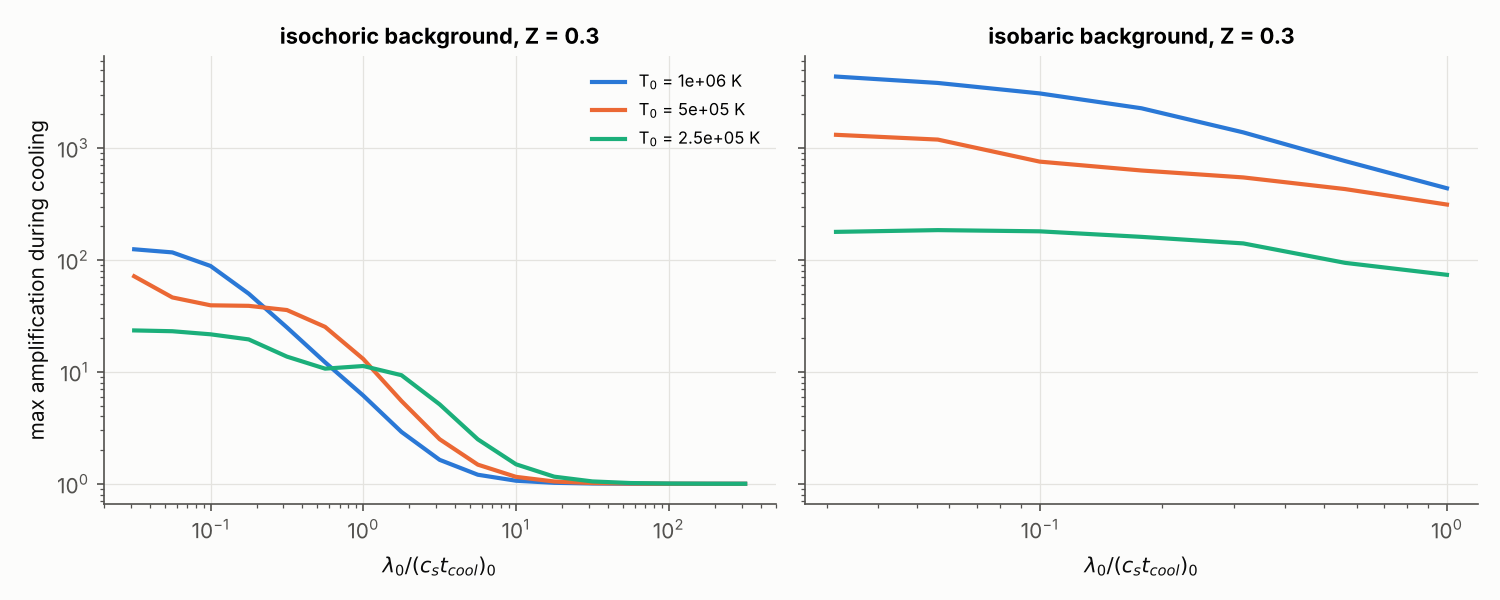
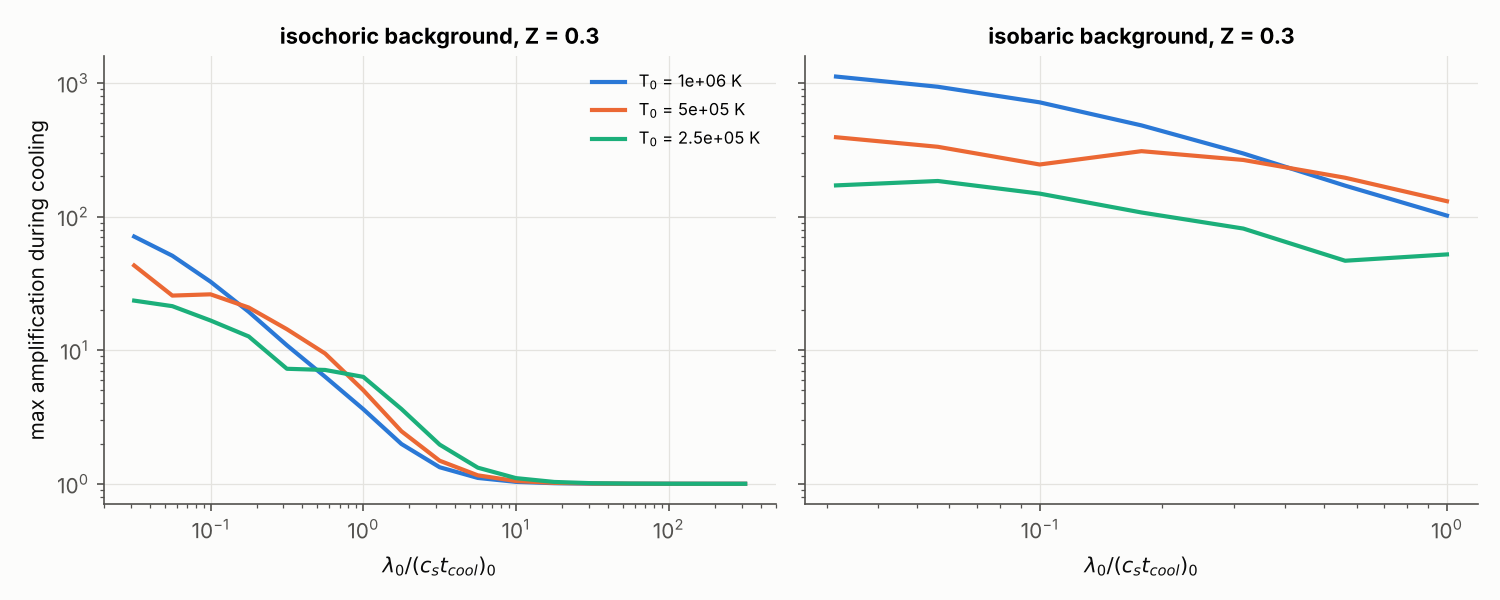
Rerun original-cooling linear survey with corrected time normalization; update figures and report text
Claude-Session: https://claude.ai/code/session_013ncLNAekGpQH8Wdgfujx6v

diff --git a/python/make_figures.py b/python/make_figures.py
@@ -284,7 +284,7 @@ def fig_cloud():
         a.set_xlabel(r"$\lambda_0 / (c_s t_{cool})_0$  (cloud gas)")
         a.set_ylim(0.8, 3e3)
     ax[0].set_ylabel(r"max $|\delta\rho/\rho|/A_0$ of seeded mode")
-    ax[0].set_title("Cloud runs: growth while cooling to 10$^4$ K")
+    ax[0].set_title("Cloud runs: growth while cooling (to 1.5 T$_{floor}$)")
     ax[1].set_title("Including post-cooling phase (to 2.5 $t_{cool}$)")
     ax[2].set_xlabel(r"interior max $\rho/\bar\rho - 1$ (edges excluded)")
     ax[2].set_ylabel(r"whole-cloud max$(\rho)/\bar\rho - 1$ (incl. edges)")

diff --git a/results/REPORT.md b/results/REPORT.md
@@ -40,11 +40,11 @@ the UV background (§4.6). The list of corrections is at the end.
 
    | x = λ/(c_s t_cool) | 0.03 | 0.1 | 0.3 | 1 | 3 | 10 |
    |---|---|---|---|---|---|---|
-   | growth while cooling | 57 | 27 | 10 | 3.4 | 1.3 | 1.03 |
-   | growth by 2.5 t_cool | 123 | 103 | 68 | 20 | 3.6 | 1.2 |
+   | growth while cooling | 71 | 33 | 11 | 3.6 | 1.3 | 1.03 |
+   | growth by 3 t_cool | 124 | 103 | 66 | 24 | 4 | 1.3 |
 
-   Metallicity enters mostly through c_s t_cool; at fixed x, Z = 0.1 and Z = 1
-   differ by less than ~50%.
+   (linear theory; the simulations agree). Metallicity enters mostly through
+   c_s t_cool: at fixed x, Z = 0.05 and Z = 1 differ by ≲ 30%.
 3. **Finite clouds behave like the infinite medium when L ≳ 1.5 c_s t_cool**
    (Fig. 6). Only clouds smaller than about c_s t_cool get the extra isobaric
    (compression) amplification, up to ~10³.
@@ -162,7 +162,21 @@ well (Fig. 18).
 
 ### 4.2 Growth versus λ/(c_s t_cool) (Figs. 3–5)
 
-{{LINEAR_CIE}}
+In linear theory (Fig. 3), the amplification of an infinite medium starting at
+10⁶ K (Z = 0.3) while it cools falls from ~70 at x = 0.03 to 3.6 at x = 1 and ~1
+for x ≳ 10. Including the post-cooling phase to 3 t_cool it is ~120, 24 and 1.3.
+In a small cloud held at constant pressure, the compression adds a large
+factor: ~10³ while cooling at x ≲ 0.1, ~3–4×10³ by 3 t_cool. Starting cooler
+leaves less of the cooling curve to traverse: from 2.5×10⁵ K the infinite-medium
+amplification is ≲ 25 (Fig. 3b). In the heated medium of Das et al., a mode
+would grow only 2.3× (isobaric) or 1.2× (isochoric) over the same elapsed time,
+because there t_cool stays fixed, while in cooling gas it shrinks by orders of
+magnitude.
+
+Fig. 4 turns this into the smallest seed that reaches δρ/ρ ~ 1 by 3 t_cool. In an
+infinite medium or a large cloud it is ~1% for x ≲ 0.3, 4% at x = 1 and 25% at
+x ≈ 3; for x ≳ 10 no seed below order unity gets there. In a small isobaric
+cloud it is 2×10⁻⁴ to 2×10⁻³.
 
 ![linear](figures/fig3_linear_amplification.png)
 
